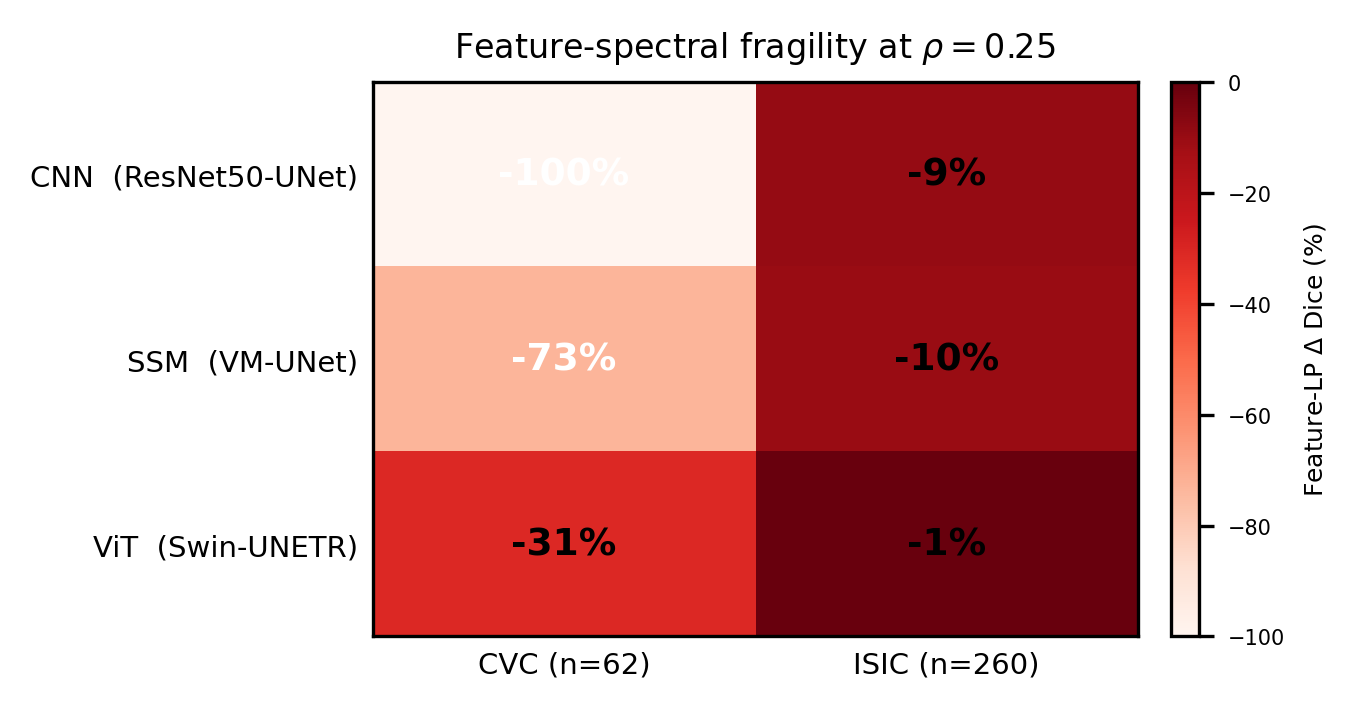
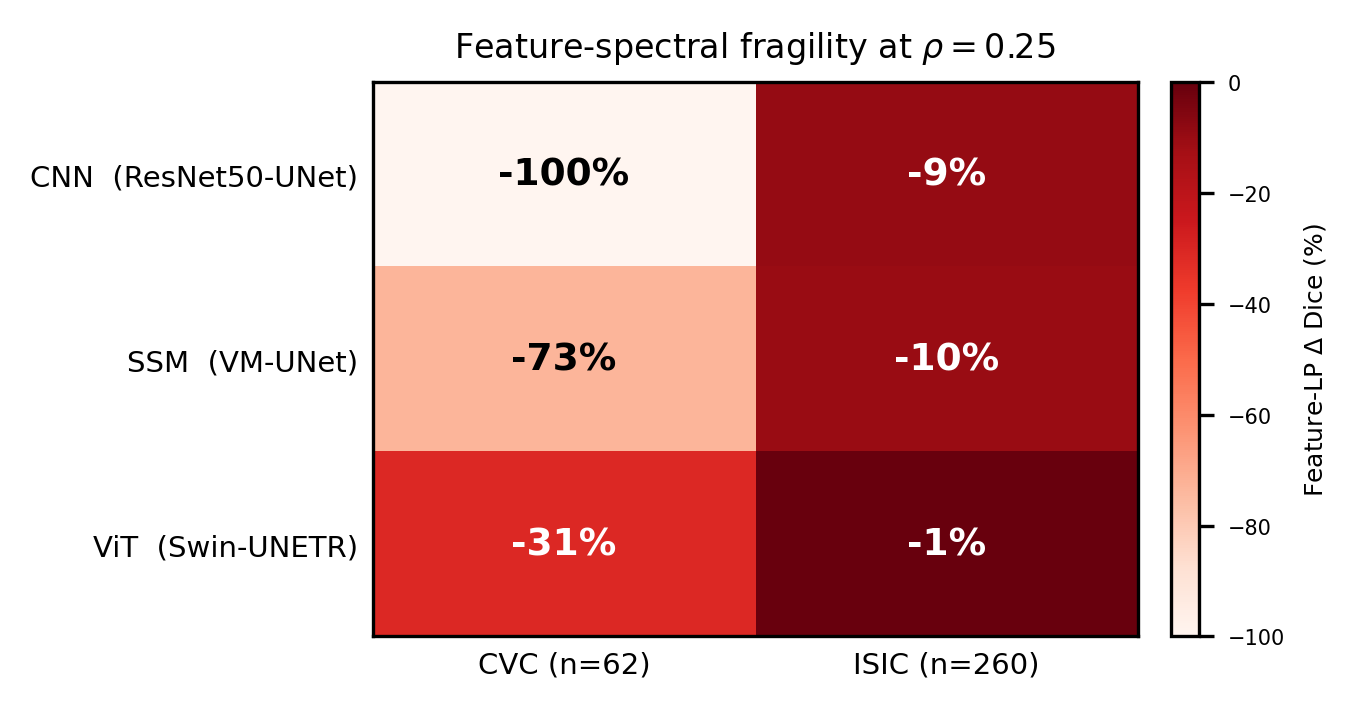
fix(paper): Fig. 2 heatmap labels readable on light cells
The -100% (CNN/CVC) label was invisible: with cmap='Reds' + vmin=-100 the
most negative cell is the lightest, but text color was white for any value
< -40. Now the annotation color is chosen from each cell's actual luminance
(white on dark cells, black on light cells). Also added export_isbi_package.py
--fig2 to regenerate just this figure. Verified: 0 black px in the -100% cell
before vs 1545 after; tables/fig1 byte-identical.

diff --git a/interventions/experiments/export_isbi_package.py b/interventions/experiments/export_isbi_package.py
@@ -4,10 +4,11 @@ straight from the result JSONs (no hardcoded numbers).
 
 Outputs to interventions/results/paper_v2/{tables,figures}/
 
-    python interventions/experiments/export_isbi_package.py
+    python interventions/experiments/export_isbi_package.py          # everything
+    python interventions/experiments/export_isbi_package.py --fig2   # Fig. 2 only
 """
 
-import os, csv, json
+import os, sys, csv, json
 
 import numpy as np
 import matplotlib
@@ -172,11 +173,17 @@ def fig2_cross_dataset_heatmap():
     ax.set_xticks(range(2)); ax.set_xticklabels(labels, fontsize=7)
     ax.set_yticks(range(3)); ax.set_yticklabels([a[0] for a in archs], fontsize=7)
     ax.tick_params(length=0)
+    # Pick the annotation color from each cell's actual luminance so labels stay
+    # visible on both light ('Reds' low-end, e.g. the -100% cell) and dark cells.
+    norm = plt.Normalize(vmin=-100, vmax=0)
+    cell_rgba = im.cmap(norm(vals))                     # (3, 2, 4)
+    lum = (0.299 * cell_rgba[..., 0] + 0.587 * cell_rgba[..., 1]
+           + 0.114 * cell_rgba[..., 2])
     for i in range(3):
         for j in range(2):
             ax.text(j, i, f'{vals[i, j]:.0f}%', ha='center', va='center',
                     fontsize=9, fontweight='bold',
-                    color='white' if vals[i, j] < -40 else 'black')
+                    color='white' if lum[i, j] < 0.6 else 'black')
     for _, spine in ax.spines.items():
         spine.set_visible(True)
     cb = fig.colorbar(im, ax=ax, fraction=0.046, pad=0.04)
@@ -190,6 +197,11 @@ def fig2_cross_dataset_heatmap():
 
 
 def main():
+    # --fig2: regenerate only the cross-dataset fragility heatmap (Fig. 2), e.g.
+    # after a styling tweak, without touching tables / fig1.
+    if len(sys.argv) > 1 and sys.argv[1] == '--fig2':
+        fig2_cross_dataset_heatmap()
+        return
     export_table1()
     export_table2()
     export_table3()
